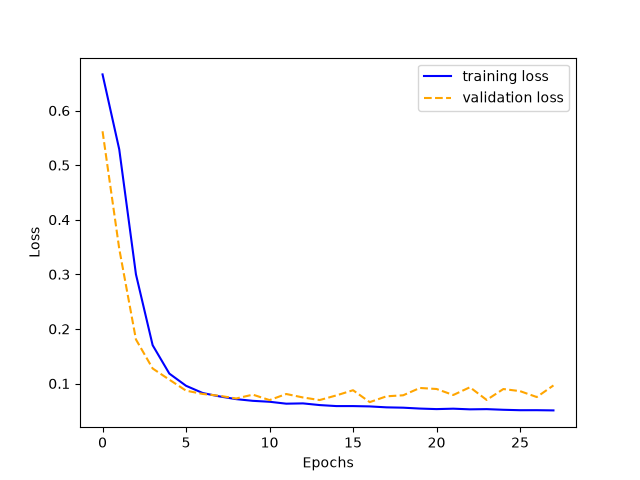
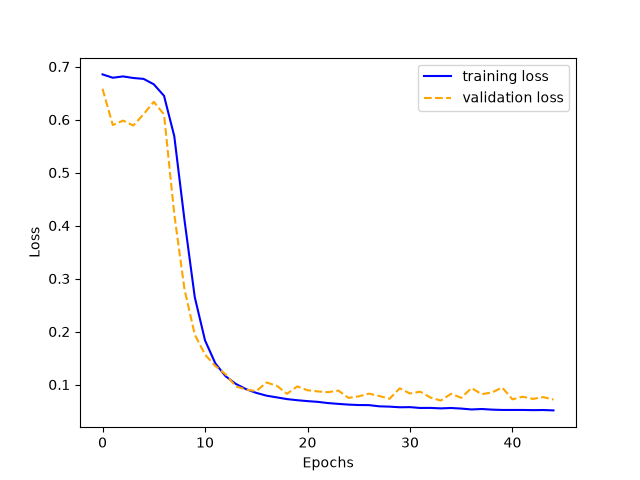
predict.py with error checking

diff --git a/predict.py b/predict.py
@@ -1,19 +1,67 @@
-from src.NeuralNetwork import NeuralNetwork
-from src.Math import binary_cross_entropy
+import sys
 import numpy as np
 import pandas
+from src.NeuralNetwork import NeuralNetwork
+from src.Math import binary_cross_entropy
 
 
 def main() -> None:
-    data = pandas.read_csv('data/testing_data.csv').to_numpy()
-    model = NeuralNetwork.from_npz('data/model_weights.npz')
+    if len(sys.argv) > 3:
+        print("Error: use as python3 "
+              "predict.py [dataset.csv] [model_weights.npz]", file=sys.stderr)
+        sys.exit(1)
+
+    data_path = sys.argv[1] if len(sys.argv) > 1 else 'data/testing_data.csv'
+    weights_path = (sys.argv[2] if len(sys.argv) > 2
+                    else 'data/model_weights.npz')
+
+    try:
+        model = NeuralNetwork.from_npz(weights_path)
+    except FileNotFoundError:
+        print(f"Error: Model weights not found at '{weights_path}. "
+              "Please run train.py first.", file=sys.stderr)
+        sys.exit(1)
+    except Exception as e:
+        print(f"Error: Failed to load model from '{weights_path}: {e}",
+              file=sys.stderr)
+        sys.exit(1)
+
+    try:
+        raw_df = pandas.read_csv(data_path)
+        if raw_df.empty:
+            print(f"Error: Dataset '{data_path}' is empty.", file=sys.stderr)
+            sys.exit(1)
+        data = raw_df.to_numpy()
+    except FileNotFoundError:
+        print(f"Error: Dataset not found at '{data_path}'. "
+              "Please run split.py first.", file=sys.stderr)
+        sys.exit(1)
+    except pandas.errors.EmptyDataError:
+        print(f"Error: Dataset '{data_path}' is empty.", file=sys.stderr)
+        sys.exit(1)
+    except Exception as e:
+        print(f"Error: Failed to read dataset from '{data_path}': {e}",
+              file=sys.stderr)
+        sys.exit(1)
 
     n = data.shape[0]
-    y = data[:, 0]
-    X = np.ascontiguousarray(data[:, 1:])
+    if n == 0 or data.shape[1] < 2:
+        print(f"Error: '{data_path}' does not contain enough data or columns.",
+              file=sys.stderr)
+        sys.exit(1)
 
-    raw_prediction = model.forward(X)
-    loss = binary_cross_entropy(y, raw_prediction)
+    labels = data[:, 0]
+    input = np.ascontiguousarray(data[:, 1:])
+
+    expected_features = model.layers[0].weights.shape[0]
+    if input.shape[1] != expected_features:
+        print(f"Error: Feature mismatch."
+              f"Model expects {expected_features} features, "
+              f"got {input.shape[1]} from '{data_path}'.", file=sys.stderr)
+        sys.exit(1)
+
+    raw_prediction = model.forward(input)
+    loss = binary_cross_entropy(labels, raw_prediction)
 
     print(f"Binary cross-entropy loss: {loss}\n")
 
@@ -23,7 +71,7 @@ def main() -> None:
     true_negative = 0
     false_positive = 0
     false_negative = 0
-    for y_true, y_pred in zip(y, prediction):
+    for y_true, y_pred in zip(labels, prediction):
         if y_true == 1 and y_pred == 1:
             true_positive += 1
         elif y_true == 0 and y_pred == 1:
@@ -32,6 +80,7 @@ def main() -> None:
             false_negative += 1
         elif y_true == 0 and y_pred == 0:
             true_negative += 1
+
     row_names = ['Actual Positives', 'Actual Negatives']
     col_names = ['Predicted Positives', 'Predicted Negatives']
     error_matrix = np.array([[true_positive, false_negative],
@@ -41,10 +90,15 @@ def main() -> None:
 
     print(error_df)
     print()
-    accuracy = (true_positive + true_negative) / n
-    precision = true_positive / (true_positive + false_positive)
-    recall = true_positive / (true_positive + false_negative)
-    f1_score = 2 * (precision * recall) / (precision + recall)
+
+    accuracy = (true_positive + true_negative) / n if n > 0 else 0.0
+    precision = (true_positive / (true_positive + false_positive)
+                 if (true_positive + false_positive) > 0 else 0.0)
+    recall = (true_positive / (true_positive + false_negative)
+              if (true_positive + false_negative) > 0 else 0.0)
+    f1_score = (2 * (precision * recall) / (precision + recall)
+                if (precision + recall) > 0 else 0.0)
+
     print(f"Accuracy: {accuracy * 100:.2f}%\n"
           f"Precision: {precision * 100:.2f}%\n"
           f"Recall: {recall * 100:.2f}%\n"

diff --git a/split.py b/split.py
@@ -13,7 +13,8 @@ def main() -> None:
     try:
         df = pandas.read_csv(path, header=None)
         if df.shape[1] < 2:
-            print(f"Error: '{path}' does not contain enough columns.", file=sys.stderr)
+            print(f"Error: '{path}' does not contain enough columns.",
+                  file=sys.stderr)
             sys.exit(1)
         df = df.iloc[:, 1:]
         print(f"Data from '{path}' successfully loaded.")
@@ -27,7 +28,8 @@ def main() -> None:
         print(f"Error: File '{path}' is empty.", file=sys.stderr)
         sys.exit(1)
     except pandas.errors.ParserError:
-        print(f"Error: Unable to parse '{path}', file may be corrupted.", file=sys.stderr)
+        print(f"Error: Unable to parse '{path}', file may be corrupted.",
+              file=sys.stderr)
         sys.exit(1)
     except Exception as e:
         print(f"Unexpected error while reading '{path}': {e}", file=sys.stderr)
@@ -61,7 +63,8 @@ def main() -> None:
         df_train.to_csv('data/training_data.csv', index=False)
         df_test.to_csv('data/testing_data.csv', index=False)
         print("Data split completed successfully:")
-        print(f"  - Training set: data/training_data.csv ({len(df_train)} rows)")
+        print("  - Training set: data/training_data.csv "
+              f"({len(df_train)} rows)")
         print(f"  - Testing set:  data/testing_data.csv ({len(df_test)} rows)")
     except Exception as e:
         print(f"Error while saving split data: {e}", file=sys.stderr)
